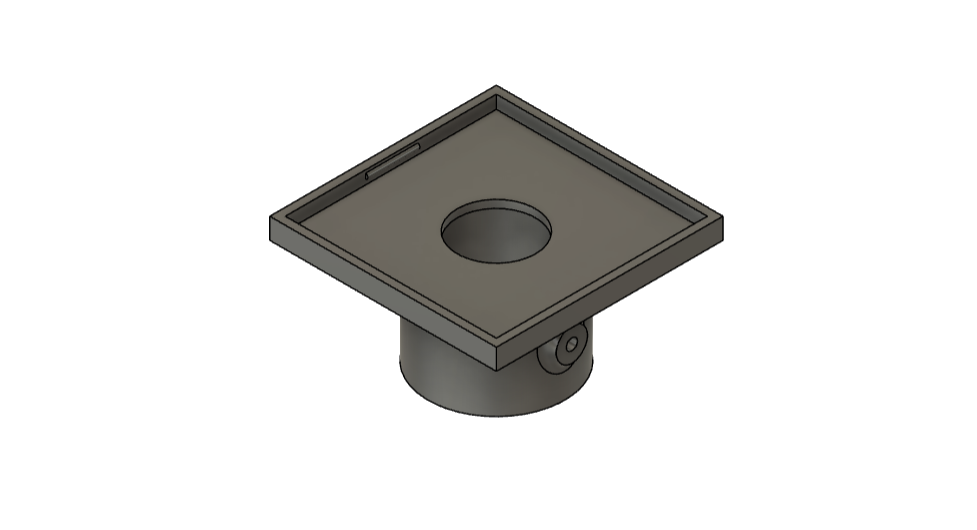
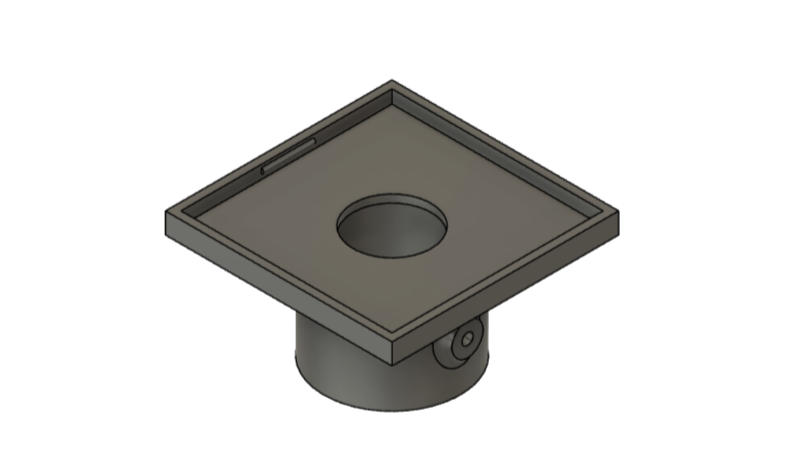
Algunos soportes 3D

Changed region(s): [[0.187, 0.1552, 0.7793, 0.9313]]

diff --git a/ensamble.tex b/ensamble.tex
@@ -45,6 +45,44 @@ Luego desenrollan y enderezan los tubos de aluminio que confirmar los anillos do
 
 \subsection{Diseño de soportes adicionales}
 
+Para poder instalar todos los componentes del telescopio, se debian fabricar soportes personalizados y adicionales para así poder utilizar receptores y elementos que no fueran parte del kit original del fabricante. Con el objetivo de reducir los timepos de fabricación y prototipado al usar componentes de aluminio o acero se decidio utilizar impresion 3D con filamento plastico PLA\footnote{Explicacion PLA} de alta resistencia mecanica.\\
+
+Se diseñaron 6 piezas en total con el software de diseño asistido por computadora o \textit{CAD} \textit{Fusion 360} de la compañia \textit{Autodesk}. Todos los comonentes fueron impresos en PLA de alta resistencia o \textit{Hyper-PLA} de la compañia \textit{Creality}, otorgando una mayor resitencia a la flexion de 50\% que el PLA convencional y una elongacion de 6.304\% en comparacion con la del PLA convencional de 3\%. La configuracion de la impresion fue una altura de capa de 0.2 mm, dada por la boquilla utilizada, 4 capas de muralla y un \textit{Infill} o relleno de 60 \%.\\
+
+Una ventaja importante en la elección de la impresion 3D en filamentops plasticos, es su baja incidencia en la deformacion o interferencia del comportamiento de radiofrecuencia, al ser un material no conductor introducido en el campo cercano de los componentes.\\
+
+\begin{figure}
+    \centering
+    \includegraphics[width=0.8\textwidth]{img/soporte3D5}
+    \caption{Union de los doportes de aluminio para el alimentador}
+    \label{fig:ensamble4}
+\end{figure}
+
+El diseño 3D de la figura \ref{fig:ensamble4} es un soporte que contiene una cabidad centrar cilindrica que conmple la funcion de sostener tanto el alimentador como el receptor por medio de un tubo plastico de PVC\footnote{PVC} que asegura que todo se mantenga alineado con el centro de la parabola, además de permitir un movimiento en el eje de la cabidad cilindrica para ajustar el foco del alimentador.\\
+
+Tiene también 4 ranuras perforadas para aseguirar los soportes con pernos M4 de medida y también 6 perforaciones con cabidades para tuercas M5. Con estas tuercas y con los respectivos tornillos se asegura la poscision del tubo de PVC para fijar el foco una vez encontrado.\\
+
+Las siguientes piezas comparten la misma filosofia de diseño, para poder compatible entre ellas y con el resto de los componentes del telescopio. Además, permiten el rediseño de nuevas piezas para otros alimentadores, cambios de largo en el tubo distriubidor de PVC y en la eleccion de otro material de impreson 3D si se quiciese.\\
+
+\begin{figure}
+    \centering
+    \includegraphics[width=0.8\textwidth]{img/soporte3D1v1}
+    \caption{Interfaz de soporte para el tubo de distribucion y otros elementos}
+    \label{fig:ensamble5}
+\end{figure}
+
+La figura \ref{fig:ensamble5} es un soporte multiproposito que permite acoplar otros soportes de menor complejidad para ser instalados en la zona del alimentador y receptor. Así permite cambios radicales en la instrumentación que se requiera en el futuro sin tener que rediseñar toda la estructura de sujeción.\\
+
+\begin{figure}
+    \centering
+    \includegraphics[width=0.8\textwidth]{img/soporte3D7}
+    \caption{Soporte interno para electronica de recepción}
+    \label{fig:ensamble6}
+\end{figure}
+
+El receptor de radiofrecuencia se encuentra dentro de una caja electrica a prueba de agua, pero se requiere un soporte interno para asegurar que la placa de adquisicion de datos y el digitalizador no se muevan y se mantengan en su lugar mientras el telescopio se mueve en distintas elevaciones. La figura \ref{fig:ensamble6} es un soporte que se instala en la caja electrica y permite montar diferentes tipos de receptores y amplificadores.\\
+
+
 \subsection{Montura Alt-Azimutal}
 
 \subsection{Rack de control}
